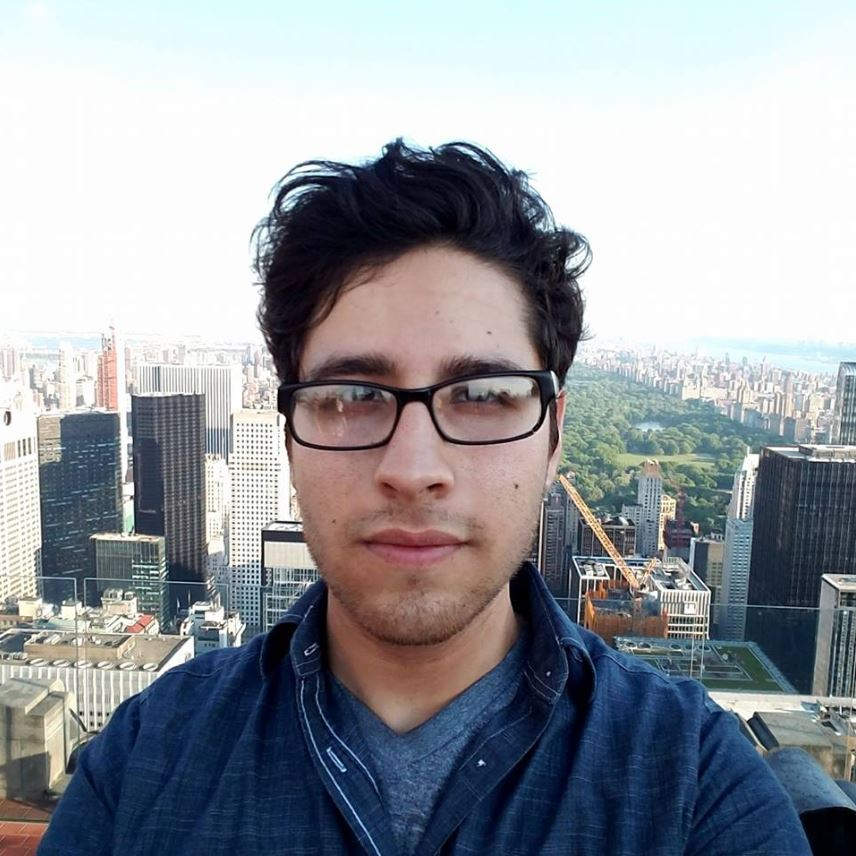
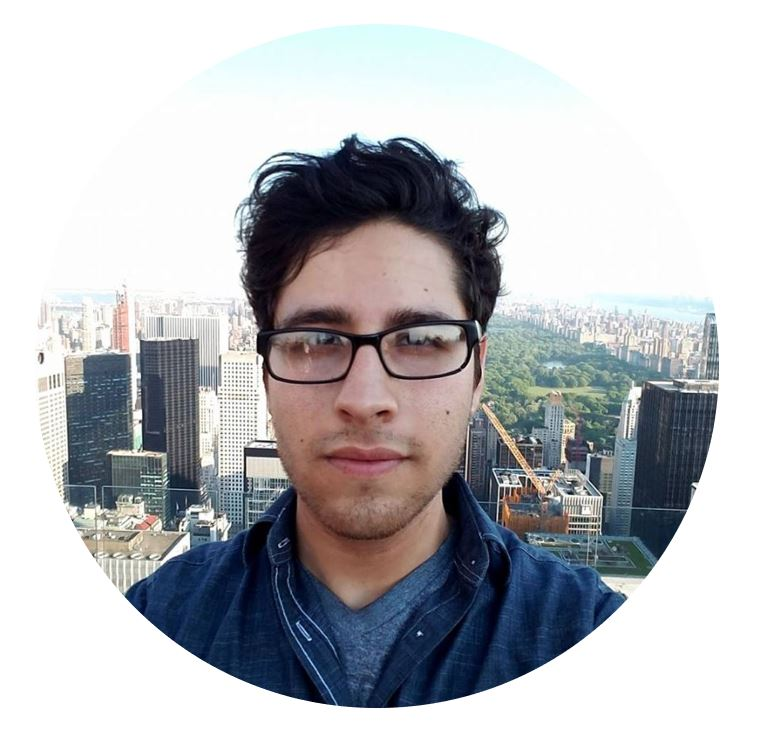
added edgar pic

diff --git a/index.html b/index.html
@@ -163,7 +163,7 @@ body {
       <li><h3>Meet the Team</h3></li>
       <li><img src="adam.png" width="100" height="100"></li>
       <li><p>Adam bio</p></li>
-      <li><div class="edgar.jpg"><p>Edgar Pic</p></div></li>
+      <li><img src="edgar.jpg" width="100" height="100"></li>
       <li><p>Edgar bio</p></li>
       <li><div class="fakeimg"><p>Emilie Pic</p></div></li>
       <li><p>Emilie bio</p></li>
